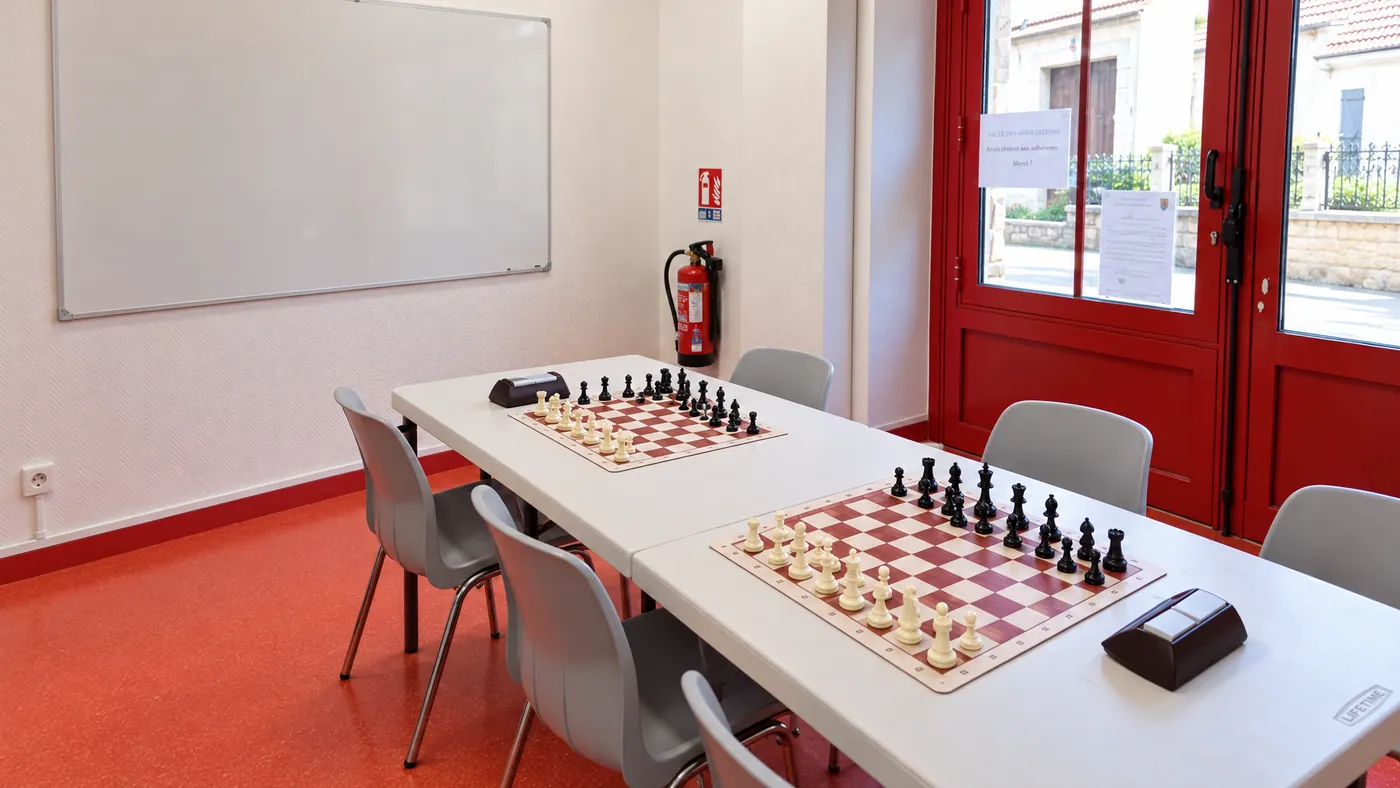
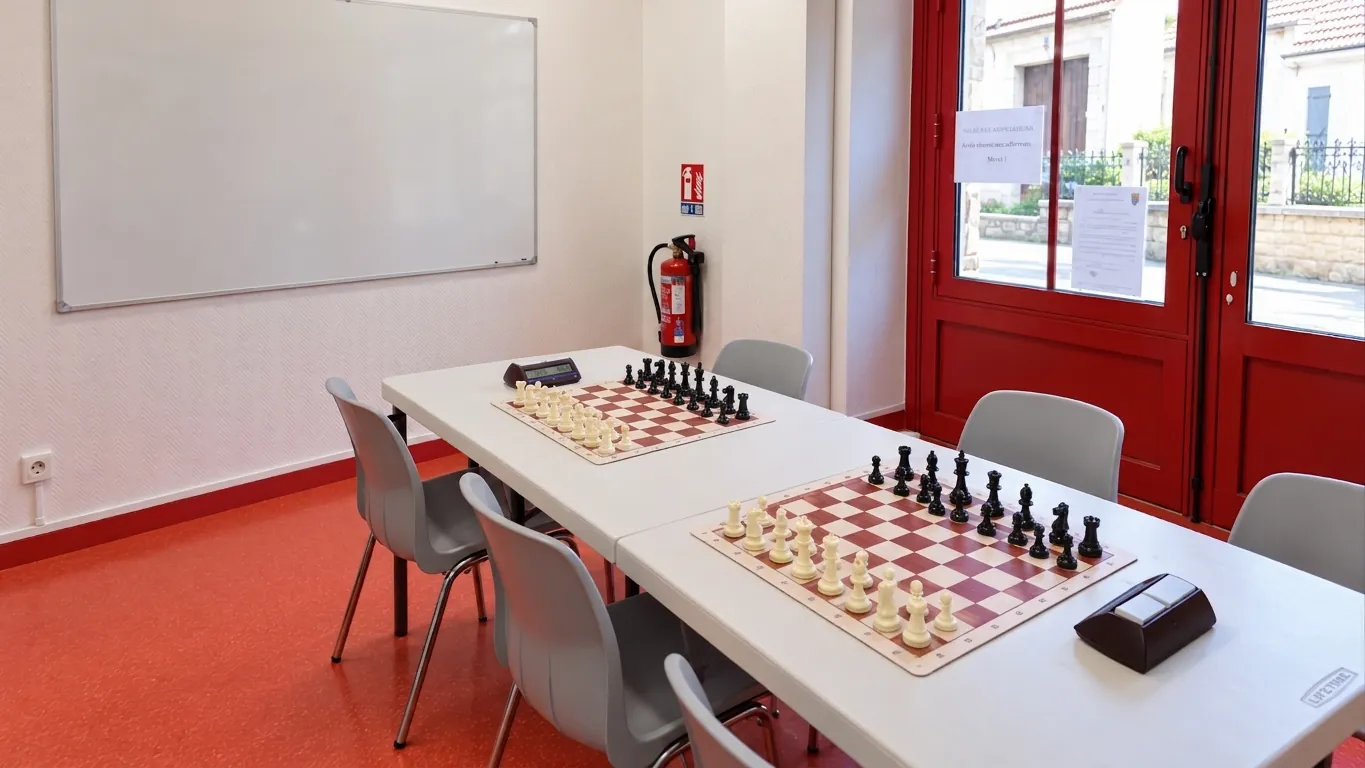
Materiel : nouvelle photo de la salle 2 (pièces du premier échiquier corrigées)
Claude-Session: https://claude.ai/code/session_01LNnEt2br15qXtKZEzAMvTp

diff --git a/Materiel.html b/Materiel.html
@@ -303,7 +303,7 @@ background:linear-gradient(105deg,rgba(255,255,255,0) 30%,rgba(255,255,255,.35) 
   <section class="jeu salle" id="salle2" aria-labelledby="salle2-titre">
     <div class="wrap jeu-grid">
       <figure class="plateau">
-        <img class="photo" src="assets/img/salle2.webp" alt="La salle 2 : deux échiquiers et leurs pendules sur de longues tables blanches, devant la grande porte rouge vitrée" width="1400" height="788" loading="lazy">
+        <img class="photo" src="assets/img/salle2.webp" alt="La salle 2 : deux échiquiers et leurs pendules sur de longues tables blanches, devant la grande porte rouge vitrée" width="1365" height="768" loading="lazy">
         <figcaption>La salle 2, prête pour la séance</figcaption>
       </figure>
       <div class="fiche">
